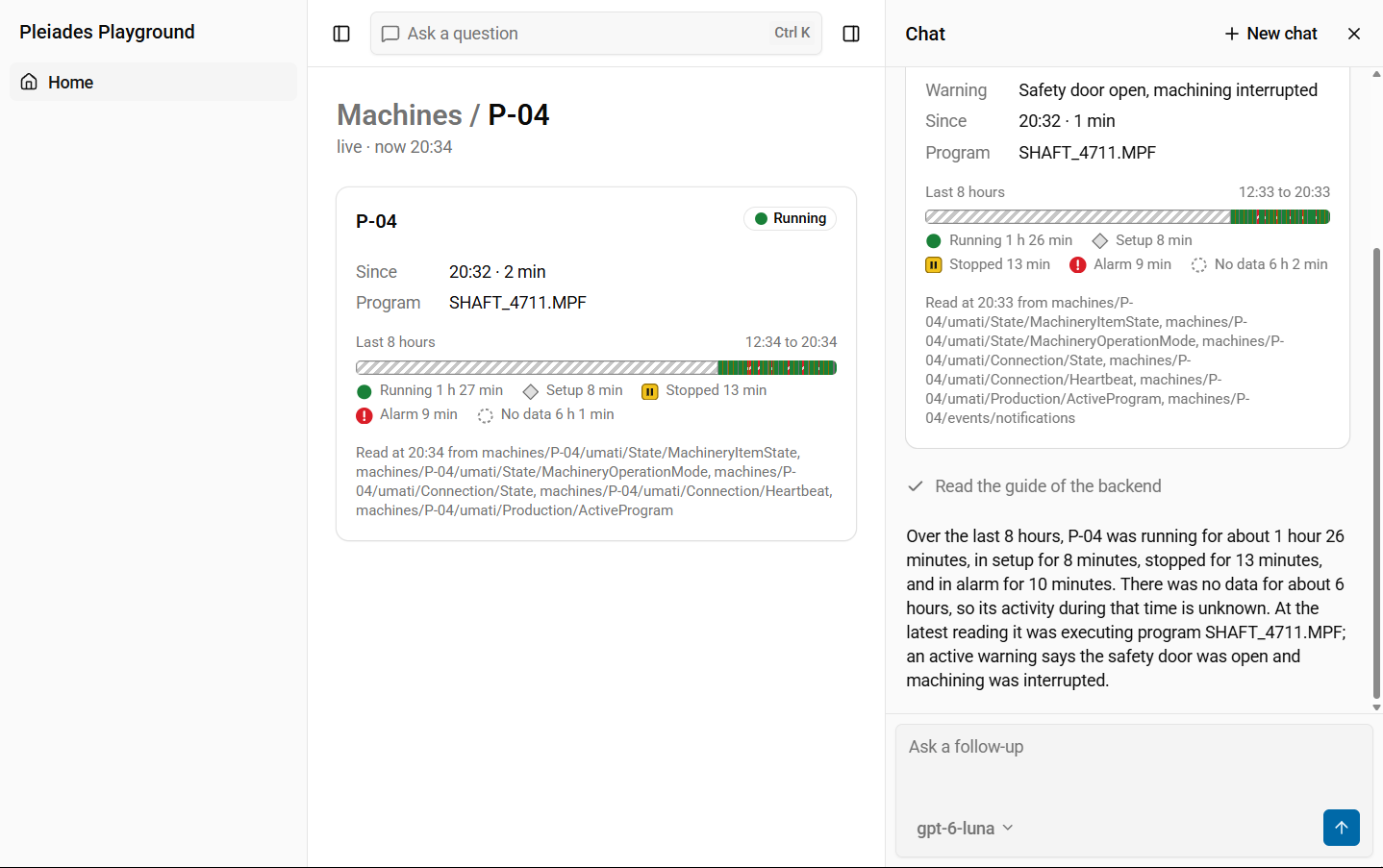
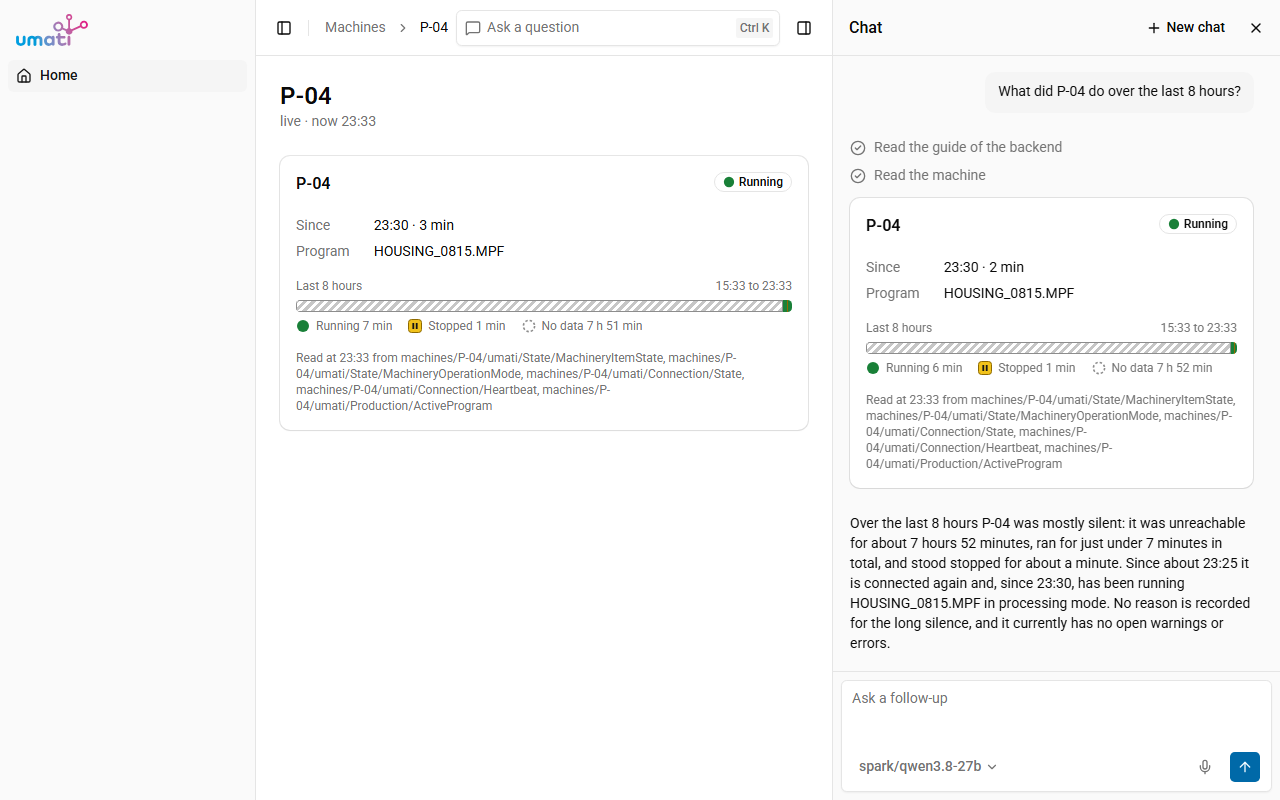
docs(tour): the chat pictures show the models of a LiteLLM gateway
Retaken with tour-screenshots.mjs against a stack of this branch whose .env
names only the address and the key of the hackathon's gateway: the picker
lists its seven chat models, spark/qwen3.8-27b first, and the answer comes
from that model, with the microphone of dictation in the field.

diff --git a/docs/tour.md b/docs/tour.md
@@ -106,16 +106,17 @@ The button at the right end of the header opens the chat. It is a panel beside t
 where it is: you chat about what you see. A language model answers and calls the tools of the generative UI
 backend, and the app draws the values of a tool call itself, with the same card as the page.
 
-![The page of P-04 on the left and the chat panel on the right. The chat shows the machine card of P-04 as
-the result of a tool call, the step "Read the guide of the backend", and below it an answer in words about
-the last 8 hours. The input field at the bottom shows the model gpt-6-luna.](images/tour/chat-answer.png)
+![The page of P-04 on the left and the chat panel on the right. The chat shows the question, the steps "Read
+the guide of the backend" and "Read the machine", the machine card of P-04 as the result of a tool call, and
+below it an answer in words about the last 8 hours. The input field at the bottom shows the model
+spark/qwen3.8-27b and a microphone.](images/tour/chat-answer.png)
 
-The picture shows the end of one chat, with a language model configured. The question was "What did P-04 do
-over the last 8 hours?". The chat lists each step of the model, here "Read the guide of the backend" and,
-further up, "Read the machine". It draws the card from the values of the tool, and the model sums it up in a
-few sentences. The numbers are the tool's and the wording is the model's: it writes 10 minutes of alarm
-where the card says 9. The card on the left is one minute newer than the one in the chat: the page reads
-again, an answer shows what was true when it was given.
+The picture shows one chat, with a language model configured. The question was "What did P-04 do over the
+last 8 hours?". The chat lists each step of the model, "Read the guide of the backend" and "Read the machine".
+It draws the card from the values of the tool, and the model sums it up in a few sentences. The numbers are
+the tool's and the wording is the model's: the card says 6 minutes of running, the model "just under 7
+minutes". The stack had just started, so most of the 8 hours have no data. The card on the left is one minute
+newer than the one in the chat: the page reads again, an answer shows what was true when it was given.
 
 The chat needs a language model, and the demo starts without one. Then the panel says "No language model
 configured" and names the missing settings; Home and the machine pages work as before. To configure a model,
@@ -134,14 +135,15 @@ The chat has no sign-in, and whoever reaches the port chats at the cost of the o
 With more than one model, the input field offers a choice. The first model answers until a chat picks
 another one, and the choice stays with that chat.
 
-![The chat panel before the first question, with three suggested questions. The model picker in the input
-field is open and lists six models: three named gpt and three named claude, the first one
-ticked.](images/tour/chat-model-picker.png)
+![Home on the left and the chat panel on the right, before the first question. The model picker in the input
+field is open and lists seven models: spark/qwen3.8-27b, ticked, then three named openai/gpt and three named
+anthropic/claude.](images/tour/chat-model-picker.png)
 
-The models in the picture are the ones this stack was configured with; yours are the names in your `.env`.
+The models in the picture are the ones the gateway of the hackathon lists; yours are the ones your gateway
+lists for your key, in its order.
 The three questions above are suggestions to begin with.
 
-With a speech-to-text model in the settings, the field also has a microphone: press it, speak, press it
+With a speech-to-text model at the gateway, the field also has a microphone: press it, speak, press it
 again, and what was said stands in the field, to send like a typed question. A key of OpenAI is enough; for
 another endpoint see [Dictation](../apps/app/README.md#dictation). The pictures above were taken without it.
 
